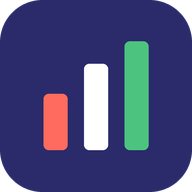
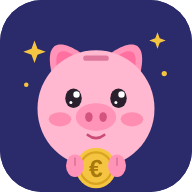
Nuova icona: maialino salvadanaio con moneta
Claude-Session: https://claude.ai/code/session_01Gi2ufzXz3r1bdacwGGpmmc

diff --git a/sw.js b/sw.js
@@ -1,6 +1,6 @@
 // Service worker dell'app Giocate: tiene in cache i file così l'app si apre anche senza rete.
 // Le giocate sono salvate sul telefono (localStorage) e non passano da qui.
-const CACHE = "giocate-v2";
+const CACHE = "giocate-v3";
 const SHELL = ["./", "index.html", "config.js", "manifest.webmanifest", "icons/icon.svg", "icons/icon-192.png", "icons/apple-touch-icon.png"];
 
 self.addEventListener("install", (e) => {
